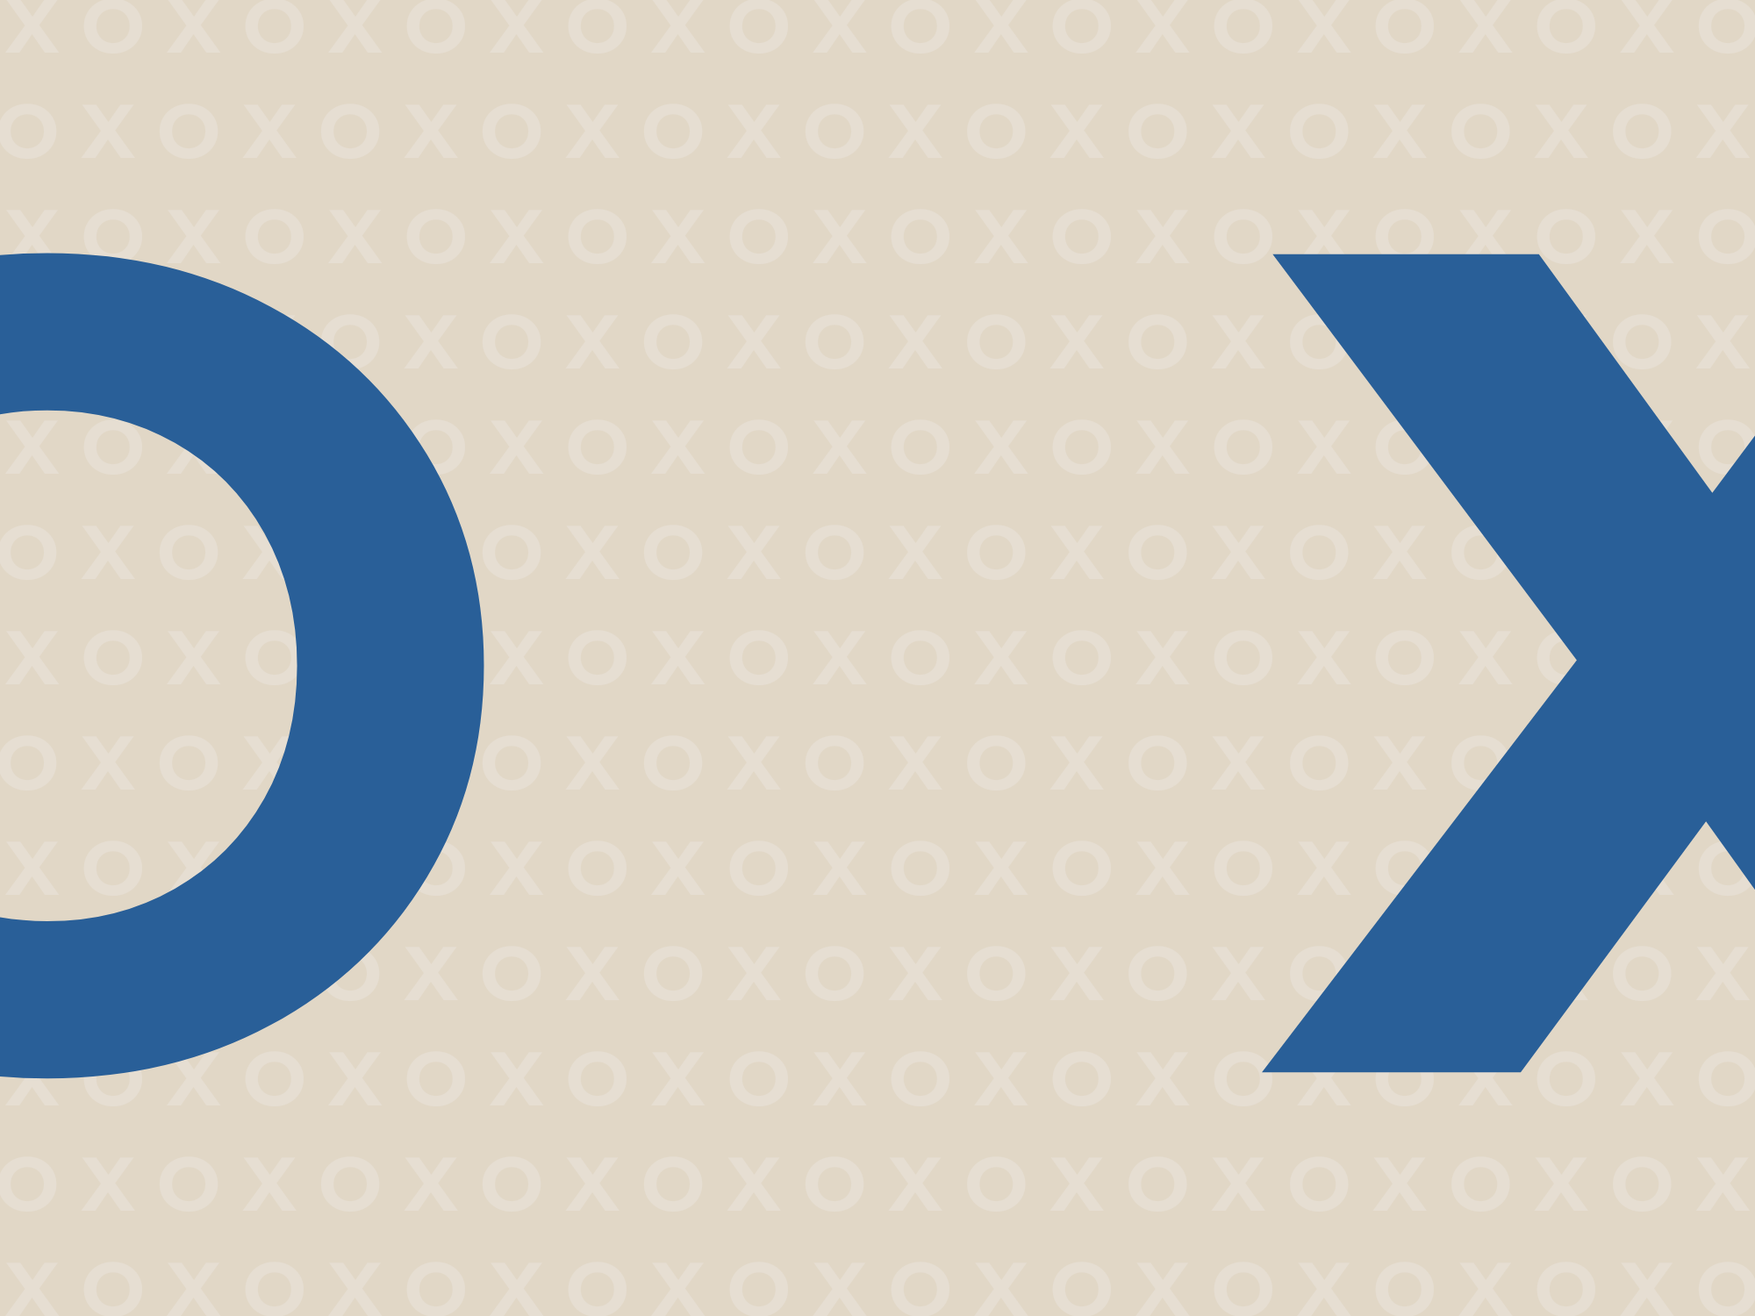
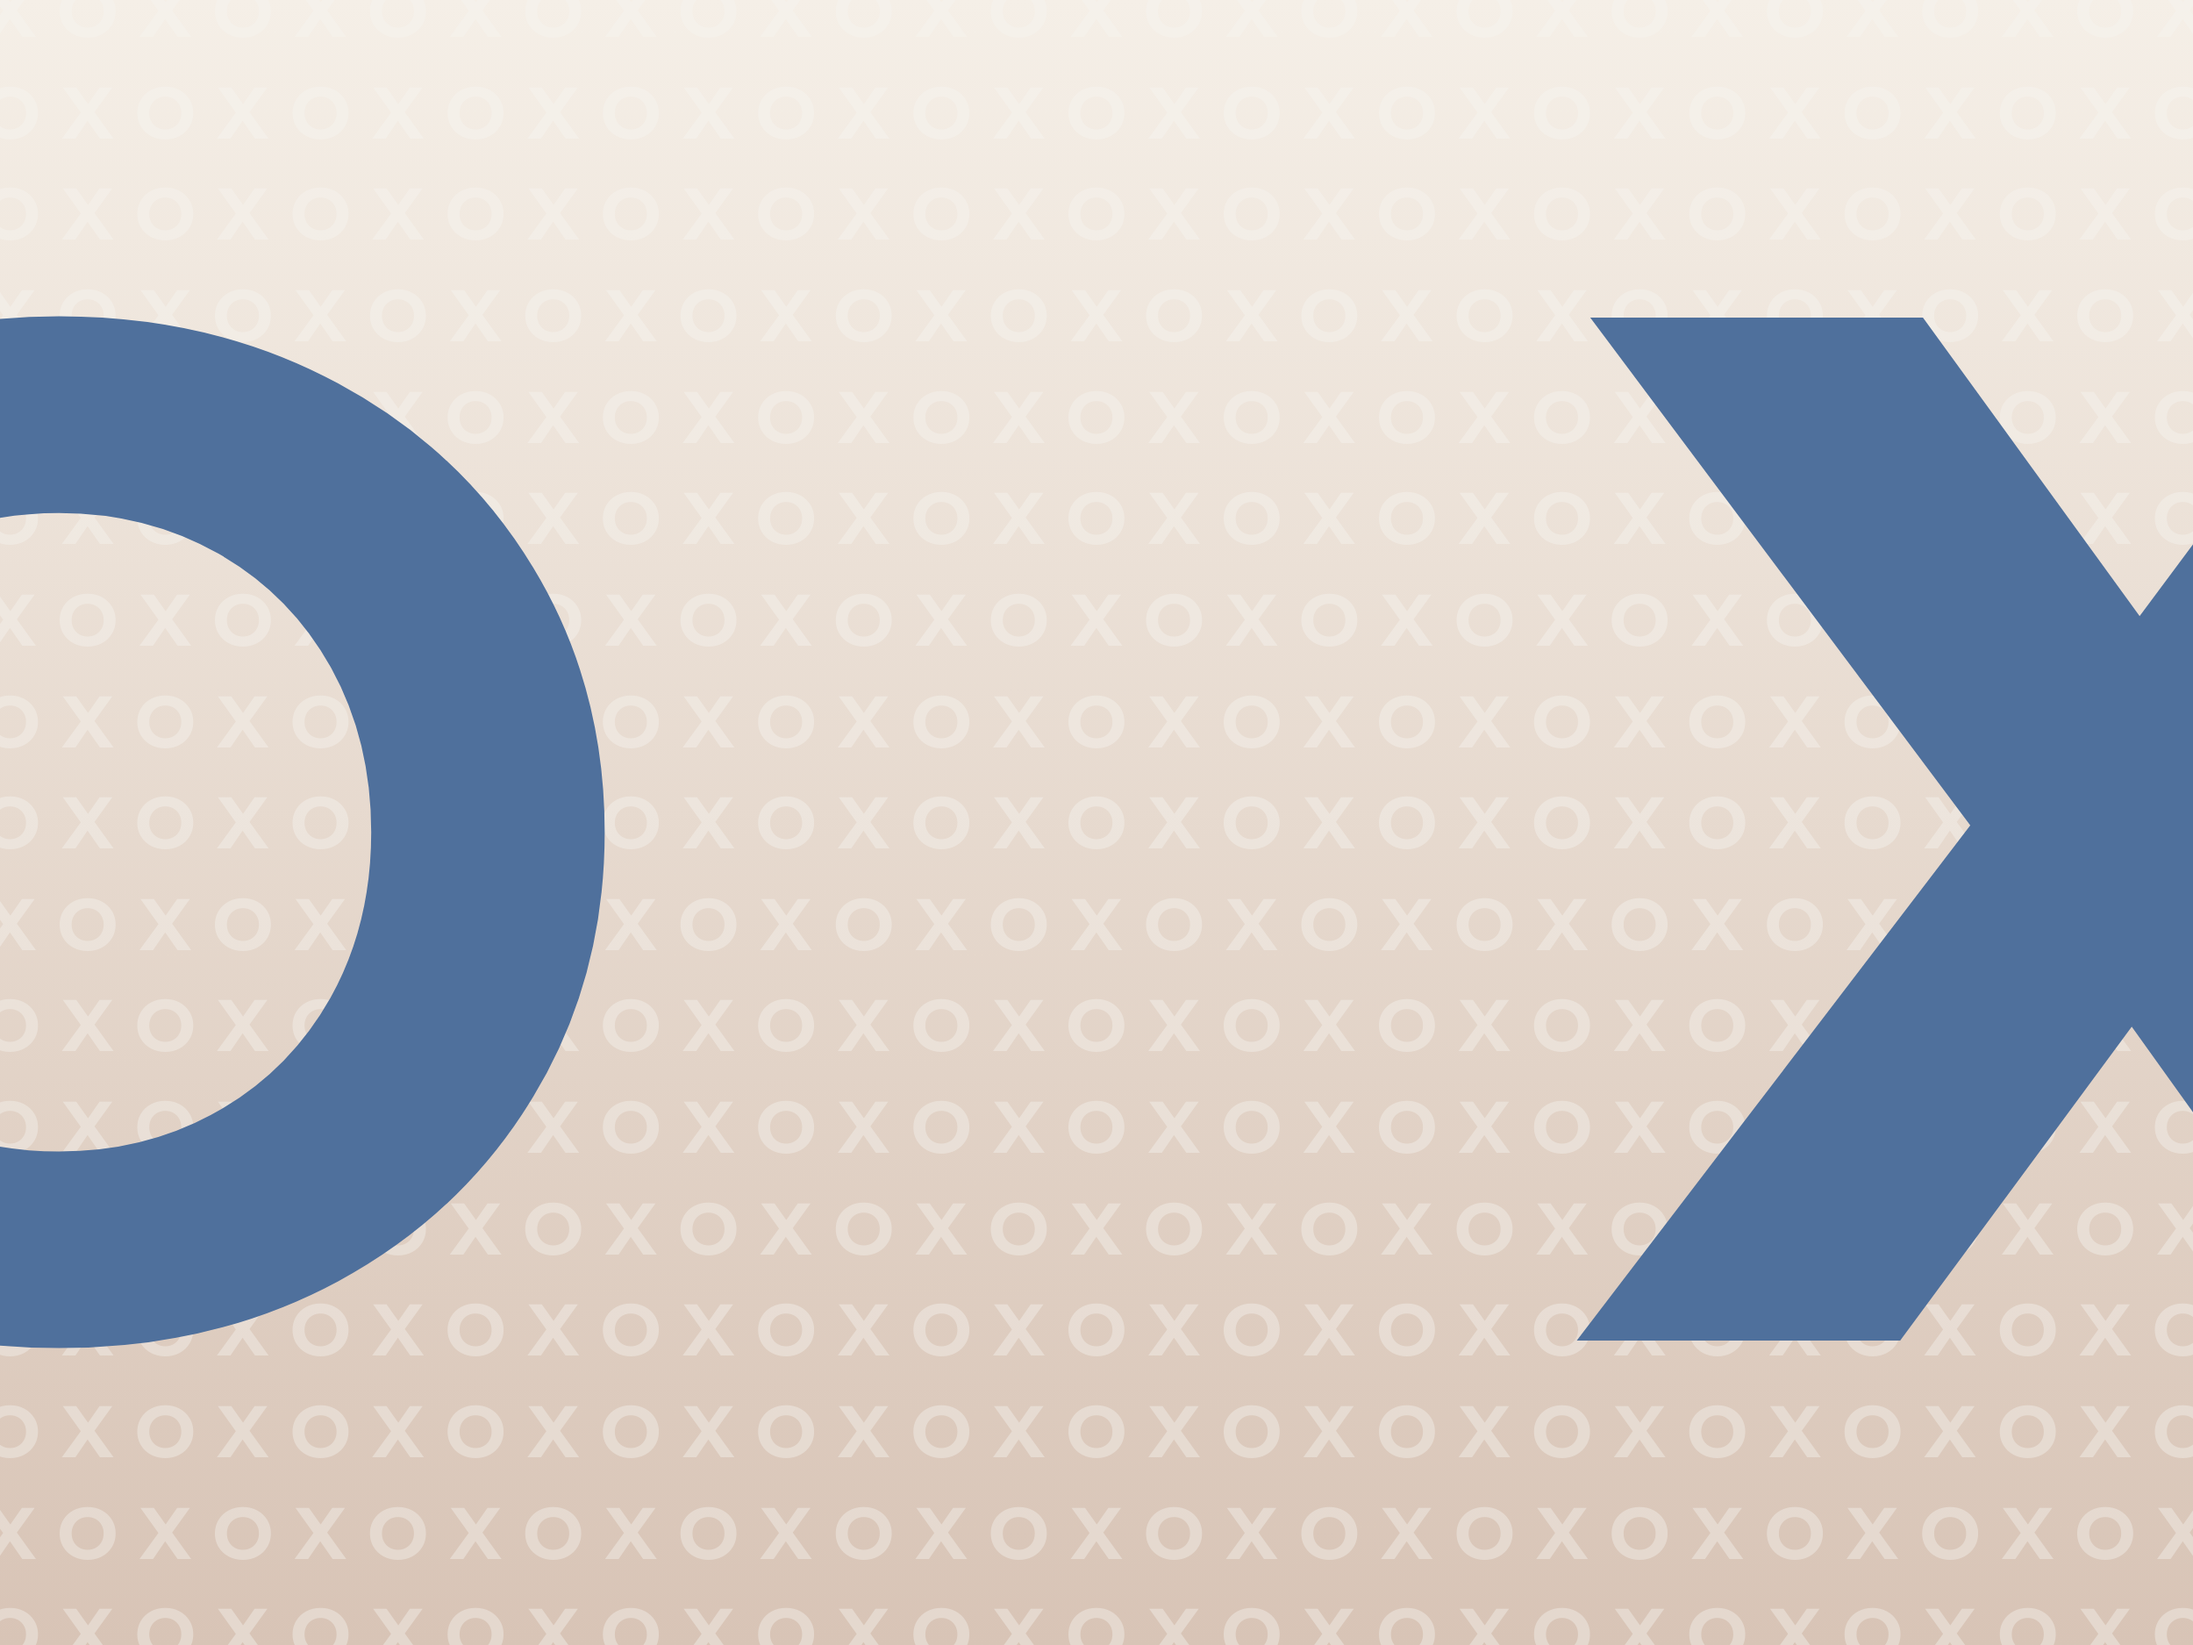
trabalhando no design da tela de menu

diff --git a/src/jogoDaVelha/TelaMenu.java b/src/jogoDaVelha/TelaMenu.java
@@ -1,58 +1,249 @@
 package jogoDaVelha;
 
 import java.awt.Color;
-
+import java.awt.Graphics;
+import java.awt.Image;
 import javax.swing.JButton;
 import javax.swing.JLabel;
+import javax.swing.JOptionPane;
 import javax.swing.JPanel;
 import net.miginfocom.swing.MigLayout;
 import javax.swing.JTextField;
+import javax.imageio.ImageIO;
 import javax.swing.ButtonGroup;
-import javax.swing.JCheckBox;
 import java.awt.event.ActionListener;
+import java.io.IOException;
 import java.awt.event.ActionEvent;
+import java.awt.Font;
+import java.awt.Cursor;
+import java.awt.Dimension;
+import javax.swing.JToggleButton;
+import java.awt.event.MouseAdapter;
+import java.awt.event.MouseEvent;
+import javax.swing.SwingConstants;
 
 public class TelaMenu extends JPanel {
 
 	private static final long serialVersionUID = 1L;
-	private final JLabel lblNewLabel_1 = new JLabel("Nome do jogador:");
-	private final JTextField textField = new JTextField();
-	private final JLabel lblNewLabel_2 = new JLabel("Simbolo:");
+	private final JLabel lbl_nome = new JLabel("NOME DO JOGADOR");
+	private final JTextField edit_nome = new JTextField();
+	private final JLabel lbl_simbolo = new JLabel("ESCOLHA SEU SÍMBOLO");
 	private final ButtonGroup buttonGroup = new ButtonGroup();
-	private final JCheckBox chckbxNewCheckBox = new JCheckBox("X");
-	private final JCheckBox chckbxNewCheckBox_1 = new JCheckBox("O");
-	private final JButton btnNewButton = new JButton("Jogar");
+	private final JButton btn_iniciar = new JButton("INICIAR");
+	private final JLabel lbl_jogo_1 = new JLabel("VELHA");
+	private final JLabel lbl_setaEsq = new JLabel("");
+	private final JLabel lbl_setaDir = new JLabel("");
+	private Image background;
+	private final JButton btn_voltar = new JButton("VOLTAR");
+	private final JToggleButton tglbtn_o = new JToggleButton("");
+	private final JToggleButton tglbtn_x = new JToggleButton("");
 
 	public TelaMenu() {
-		this.textField.setColumns(10);
+		try {
+			background = ImageIO.read(getClass().getResource("background.png"));
+		} catch (IOException e) {
+			e.printStackTrace();
+		}
 		initComponents();
 
 	}
 
+	@Override
+	protected void paintComponent(Graphics g) {
+		super.paintComponent(g);
+		g.drawImage(background, 0, 0, getWidth(), getHeight(), this);
+	}
+
 	public void initComponents() {
 		this.setBounds(100, 100, 800, 600);
-		setBackground(Color.LIGHT_GRAY);
-		setLayout(new MigLayout("", "[grow][grow][grow]", "[grow][grow][grow]"));
-
-		JPanel panel = new JPanel();
-		add(panel, "cell 1 1,grow");
-		panel.setLayout(new MigLayout("", "[][][][]", "[][][][][][][]"));
-
-		JLabel lblNewLabel = new JLabel("Jogo da Velha");
-		panel.add(lblNewLabel, "cell 1 1");
-		panel.add(this.lblNewLabel_1, "cell 1 3,alignx trailing");
-		panel.add(this.textField, "cell 2 3,growx");
-		panel.add(this.lblNewLabel_2, "cell 1 4");
-		this.buttonGroup.add(this.chckbxNewCheckBox);
-		panel.add(this.chckbxNewCheckBox, "flowx,cell 2 4");
-		this.buttonGroup.add(this.chckbxNewCheckBox_1);
-		panel.add(this.chckbxNewCheckBox_1, "cell 2 4");
-		this.btnNewButton.addActionListener(new ActionListener() {
+		setBackground(new Color(245, 239, 231));
+		setLayout(new MigLayout("", "[grow][center][grow]", "[grow][grow][grow]"));
+		this.buttonGroup.add(this.tglbtn_o);
+		this.tglbtn_o.addActionListener(new ActionListener() {
 			public void actionPerformed(ActionEvent e) {
-				abrirTelaJogo();
+				if (tglbtn_o.isSelected()) {
+					try {
+						background = ImageIO.read(getClass().getResource("background_o_selected.png"));
+					} catch (IOException e1) {
+						e1.printStackTrace();
+					}
+					repaint();
+				}
 			}
 		});
-		panel.add(this.btnNewButton, "cell 2 5,alignx right");
+		this.tglbtn_o.addMouseListener(new MouseAdapter() {
+			@Override
+			public void mouseEntered(MouseEvent e) {
+				if (!tglbtn_o.isSelected() && !tglbtn_x.isSelected()) {
+					try {
+						background = ImageIO.read(getClass().getResource("background_o.png"));
+					} catch (IOException e1) {
+						e1.printStackTrace();
+					}
+					repaint();
+				}
+			}
+
+			@Override
+			public void mouseExited(MouseEvent e) {
+				if (!tglbtn_o.isSelected() && !tglbtn_x.isSelected()) {
+					try {
+						background = ImageIO.read(getClass().getResource("background.png"));
+					} catch (IOException e1) {
+						e1.printStackTrace();
+					}
+					repaint();
+				}
+			}
+		});
+		this.tglbtn_o.setFocusPainted(false);
+		this.tglbtn_o.setFocusable(false);
+		this.tglbtn_o.setContentAreaFilled(false);
+		this.tglbtn_o.setBorder(null);
+
+		add(this.tglbtn_o, "cell 0 1,grow");
+
+		JPanel panel = new JPanel();
+		panel.setOpaque(false);
+		panel.setBackground(new Color(245, 239, 231));
+		add(panel, "cell 1 1,alignx center,growy");
+		panel.setLayout(new MigLayout("", "[grow][][][][grow]", "[grow][][][grow][][][][][grow][][grow][][grow]"));
+
+		JLabel lbl_jogo = new JLabel("JOGO DA");
+		lbl_jogo.setForeground(new Color(115, 145, 185));
+		lbl_jogo.setFont(new Font("Segoe UI Semibold", Font.PLAIN, 30));
+		panel.add(lbl_jogo, "cell 2 1,alignx center,aligny center");
+		this.lbl_jogo_1.setForeground(new Color(79, 112, 156));
+		this.lbl_jogo_1.setFont(new Font("Segoe UI Black", Font.PLAIN, 45));
+
+		panel.add(this.lbl_jogo_1, "cell 2 2,alignx center,aligny center");
+		this.lbl_nome.setForeground(new Color(115, 145, 185));
+		this.lbl_nome.setFont(new Font("Segoe UI", Font.BOLD, 18));
+		panel.add(this.lbl_nome, "cell 2 4,alignx center,aligny center");
+
+		this.edit_nome.setHorizontalAlignment(SwingConstants.CENTER);
+		this.edit_nome.setForeground(new Color(145, 168, 200));
+		this.edit_nome.setFont(new Font("Segoe UI Semibold", Font.PLAIN, 16));
+		panel.add(this.edit_nome, "cell 2 5,growx,aligny center");
+
+		panel.add(this.lbl_setaEsq, "cell 0 7,alignx right,aligny center");
+
+		this.lbl_setaEsq.setIcon(new javax.swing.ImageIcon(getClass().getResource("/jogoDaVelha/left_arrow.png")));
+		this.lbl_simbolo.setForeground(new Color(115, 145, 185));
+		this.lbl_simbolo.setFont(new Font("Segoe UI", Font.BOLD, 18));
+		panel.add(this.lbl_simbolo, "cell 2 7,alignx center,aligny center");
+		this.btn_iniciar.setOpaque(false);
+		this.btn_iniciar.setRequestFocusEnabled(false);
+		this.btn_iniciar.setForeground(new Color(79, 112, 156));
+		this.btn_iniciar.setFont(new Font("Segoe UI", Font.BOLD, 22));
+		this.btn_iniciar.setFocusable(false);
+		this.btn_iniciar.setFocusTraversalKeysEnabled(false);
+		this.btn_iniciar.setFocusPainted(false);
+		this.btn_iniciar.setCursor(Cursor.getPredefinedCursor(Cursor.HAND_CURSOR));
+
+		this.btn_iniciar.addActionListener(new ActionListener() {
+			public void actionPerformed(ActionEvent e) {
+				if (!edit_nome.getText().isEmpty()) {
+					abrirTelaJogo();
+				} else {
+					JOptionPane.showMessageDialog(TelaMenu.this, "Por favor, insira o nome do jogador!");
+				}
+			}
+		});
+
+		panel.add(this.lbl_setaDir, "cell 4 7,alignx left,aligny center");
+		this.lbl_setaDir.setIcon(new javax.swing.ImageIcon(getClass().getResource("/jogoDaVelha/right_arrow.png")));
+		panel.add(this.btn_iniciar, "cell 2 9,growx,aligny center");
+		this.btn_voltar.addActionListener(new ActionListener() {
+			public void actionPerformed(ActionEvent e) {
+				abrirTelaInicial();
+			}
+		});
+		this.btn_voltar.setMinimumSize(new Dimension(45, 20));
+		this.btn_voltar.setMaximumSize(new Dimension(150, 25));
+		this.btn_voltar.setContentAreaFilled(false);
+		this.btn_voltar.setRequestFocusEnabled(false);
+		this.btn_voltar.setForeground(new Color(115, 145, 185));
+		this.btn_voltar.setFont(new Font("Segoe UI", Font.BOLD, 18));
+		this.btn_voltar.setFocusable(false);
+		this.btn_voltar.setFocusTraversalKeysEnabled(false);
+		this.btn_voltar.setFocusPainted(false);
+		this.btn_voltar.setCursor(Cursor.getPredefinedCursor(Cursor.HAND_CURSOR));
+
+		panel.add(this.btn_voltar, "cell 2 11,alignx center,aligny center");
+
+		efeitoMouseOver();
+		this.buttonGroup.add(this.tglbtn_x);
+		this.tglbtn_x.addActionListener(new ActionListener() {
+			public void actionPerformed(ActionEvent e) {
+				if (tglbtn_x.isSelected()) {
+					try {
+						background = ImageIO.read(getClass().getResource("background_x_selected.png"));
+					} catch (IOException e1) {
+						e1.printStackTrace();
+					}
+					repaint();
+				}
+			}
+		});
+		this.tglbtn_x.setFocusable(false);
+		this.tglbtn_x.setFocusPainted(false);
+		this.tglbtn_x.setBorder(null);
+		this.tglbtn_x.addMouseListener(new MouseAdapter() {
+			@Override
+			public void mouseEntered(MouseEvent e) {
+				if (!tglbtn_o.isSelected() && !tglbtn_x.isSelected()) {
+					try {
+						background = ImageIO.read(getClass().getResource("background_x.png"));
+					} catch (IOException e1) {
+						e1.printStackTrace();
+					}
+					repaint();
+				}
+			}
+
+			@Override
+			public void mouseExited(MouseEvent e) {
+				if (!tglbtn_o.isSelected() && !tglbtn_x.isSelected()) {
+					try {
+						background = ImageIO.read(getClass().getResource("background.png"));
+					} catch (IOException e1) {
+						e1.printStackTrace();
+					}
+					repaint();
+				}
+			}
+		});
+		this.tglbtn_x.setContentAreaFilled(false);
+
+		add(this.tglbtn_x, "cell 2 1,grow");
+	}
+
+	private void efeitoMouseOver() {
+		btn_iniciar.addMouseListener(new java.awt.event.MouseAdapter() {
+			public void mouseEntered(java.awt.event.MouseEvent evento) {
+				btn_iniciar.setForeground(new Color(115, 145, 185));
+			}
+
+			public void mouseExited(java.awt.event.MouseEvent evento) {
+				btn_iniciar.setForeground(new Color(79, 112, 156));
+			}
+		});
+		btn_voltar.addMouseListener(new java.awt.event.MouseAdapter() {
+			public void mouseEntered(java.awt.event.MouseEvent evento) {
+				btn_voltar.setForeground(new Color(145, 168, 200));
+			}
+
+			public void mouseExited(java.awt.event.MouseEvent evento) {
+				btn_voltar.setForeground(new Color(115, 145, 185));
+			}
+		});
+	}
+
+	protected void abrirTelaInicial() {
+		Janela.frame.setContentPane(new TelaInicial());
+		Janela.frame.setVisible(true);
+
 	}
 
 	protected void abrirTelaJogo() {

diff --git a/src/jogoDaVelha/TelaInicial.java b/src/jogoDaVelha/TelaInicial.java
@@ -7,7 +7,6 @@ import javax.swing.JLabel;
 import java.awt.Font;
 import java.awt.Image;
 import java.awt.Graphics;
-
 import javax.imageio.ImageIO;
 import javax.swing.JButton;
 import java.awt.event.ActionListener;
@@ -27,6 +26,7 @@ public class TelaInicial extends JPanel {
 	private final JButton btn_jogar = new JButton("JOGAR");
 	private final JButton btn_sair = new JButton("SAIR");
 	private Image background;
+	private final JLabel lbl_o = new JLabel("");
 
 	public TelaInicial() {
 		try {
@@ -45,21 +45,24 @@ public class TelaInicial extends JPanel {
 
 	private void initComponents() {
 		setBounds(100, 100, 800, 600);
-		setBackground(new Color(234, 228, 221));
+		setBackground(new Color(245, 239, 231));
 		setLayout(new MigLayout("", "[grow][grow][grow]", "[grow][grow][grow]"));
+
+		add(this.lbl_o, "cell 0 1,grow");
 		this.panel.setOpaque(false);
 		this.panel.setBackground(new Color(205, 194, 165));
 
 		add(this.panel, "cell 1 1,grow");
 		this.panel.setLayout(new MigLayout("", "[grow][][grow]", "[grow][][grow][][grow][][grow]"));
-		this.lbl_jogo.setForeground(Color.WHITE);
+		this.lbl_jogo.setForeground(new Color(115, 145, 185));
 		this.lbl_jogo.setFont(new Font("Segoe UI Semibold", Font.PLAIN, 60));
 
 		this.panel.add(this.lbl_jogo, "flowy,cell 1 1,alignx center,aligny bottom");
+		this.btn_jogar.setOpaque(false);
+		this.btn_jogar.setBackground(new Color(245, 239, 231));
 		this.btn_jogar.setMargin(new Insets(2, 10, 2, 10));
 		this.btn_jogar.setAlignmentX(Component.CENTER_ALIGNMENT);
-		this.btn_jogar.setOpaque(false);
-		this.btn_jogar.setForeground(Color.DARK_GRAY);
+		this.btn_jogar.setForeground(new Color(79, 112, 156));
 		this.btn_jogar.setFocusPainted(false);
 		this.btn_jogar.setFocusTraversalKeysEnabled(false);
 		this.btn_jogar.setFocusable(false);
@@ -71,14 +74,14 @@ public class TelaInicial extends JPanel {
 				abreTelaMenu();
 			}
 		});
-		this.btn_jogar.setFont(new Font("Segoe UI Semibold", Font.BOLD, 22));
+		this.btn_jogar.setFont(new Font("Segoe UI", Font.BOLD, 22));
 
 		this.panel.add(this.btn_jogar, "cell 1 3,alignx center,aligny center");
 		this.btn_sair.setContentAreaFilled(false);
 		this.btn_sair.setMinimumSize(new Dimension(45, 20));
-		this.btn_sair.setMaximumSize(new Dimension(50, 25));
+		this.btn_sair.setMaximumSize(new Dimension(60, 25));
 		this.btn_sair.setMargin(new Insets(2, 5, 2, 5));
-		this.btn_sair.setForeground(Color.DARK_GRAY);
+		this.btn_sair.setForeground(new Color(115, 145, 185));
 		this.btn_sair.setRequestFocusEnabled(false);
 		this.btn_sair.setOpaque(false);
 		this.btn_sair.setFocusPainted(false);
@@ -92,10 +95,10 @@ public class TelaInicial extends JPanel {
 				Runtime.getRuntime().exit(0);
 			}
 		});
-		this.btn_sair.setFont(new Font("Segoe UI Semibold", Font.PLAIN, 16));
+		this.btn_sair.setFont(new Font("Segoe UI", Font.BOLD, 18));
 
 		this.panel.add(this.btn_sair, "cell 1 5,alignx center,aligny center");
-		this.lbl_velha.setForeground(Color.WHITE);
+		this.lbl_velha.setForeground(new Color(79, 112, 156));
 		this.lbl_velha.setFont(new Font("Segoe UI Black", Font.PLAIN, 90));
 
 		this.panel.add(this.lbl_velha, "cell 1 1,alignx center,aligny top");
@@ -106,20 +109,20 @@ public class TelaInicial extends JPanel {
 	private void efeitoMouseOver() {
 		btn_jogar.addMouseListener(new java.awt.event.MouseAdapter() {
 			public void mouseEntered(java.awt.event.MouseEvent evento) {
-				btn_jogar.setForeground(new Color(41, 95, 152));
+				btn_jogar.setForeground(new Color(115, 145, 185));
 			}
 
 			public void mouseExited(java.awt.event.MouseEvent evento) {
-				btn_jogar.setForeground(Color.DARK_GRAY);
+				btn_jogar.setForeground(new Color(79, 112, 156));
 			}
 		});
 		btn_sair.addMouseListener(new java.awt.event.MouseAdapter() {
 			public void mouseEntered(java.awt.event.MouseEvent evento) {
-				btn_sair.setForeground(Color.RED);
+				btn_sair.setForeground(new Color(145, 168, 200));
 			}
 
 			public void mouseExited(java.awt.event.MouseEvent evento) {
-				btn_sair.setForeground(Color.DARK_GRAY);
+				btn_sair.setForeground(new Color(115, 145, 185));
 			}
 		});
 	}
